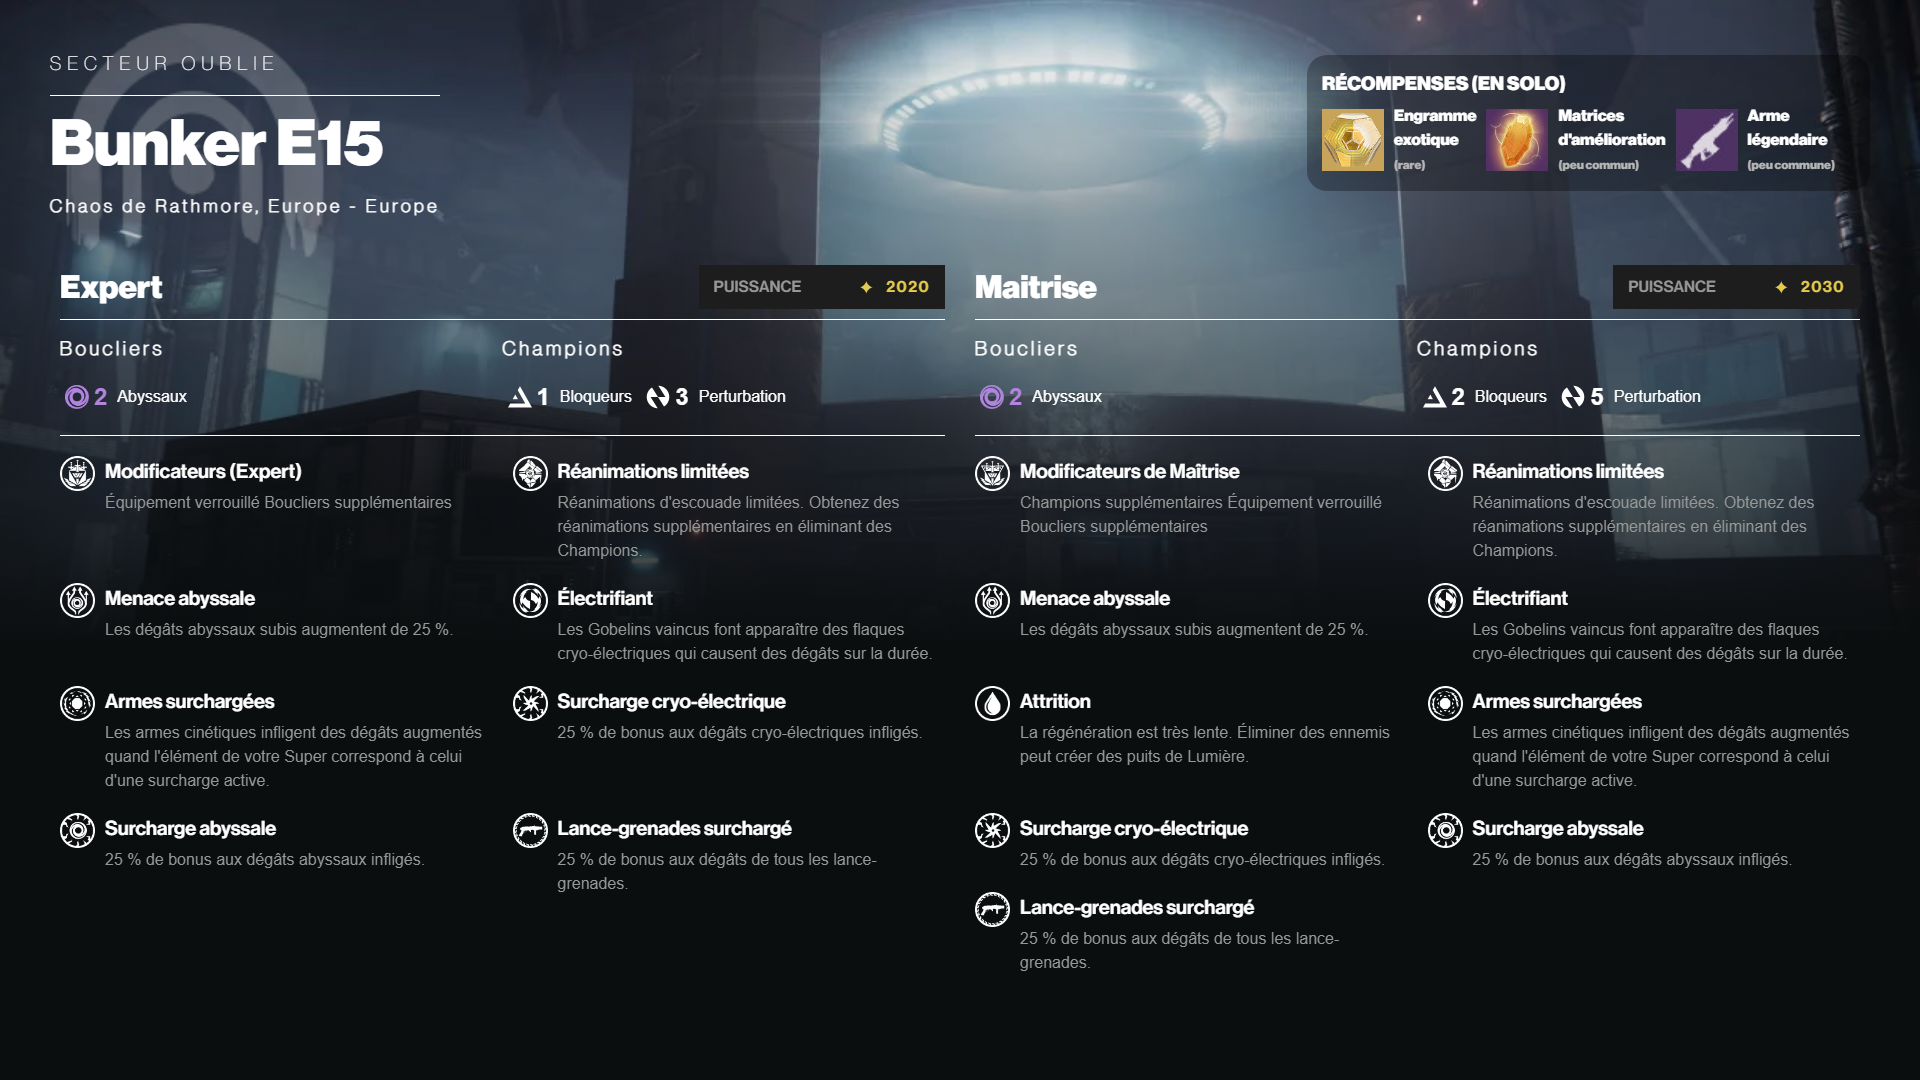
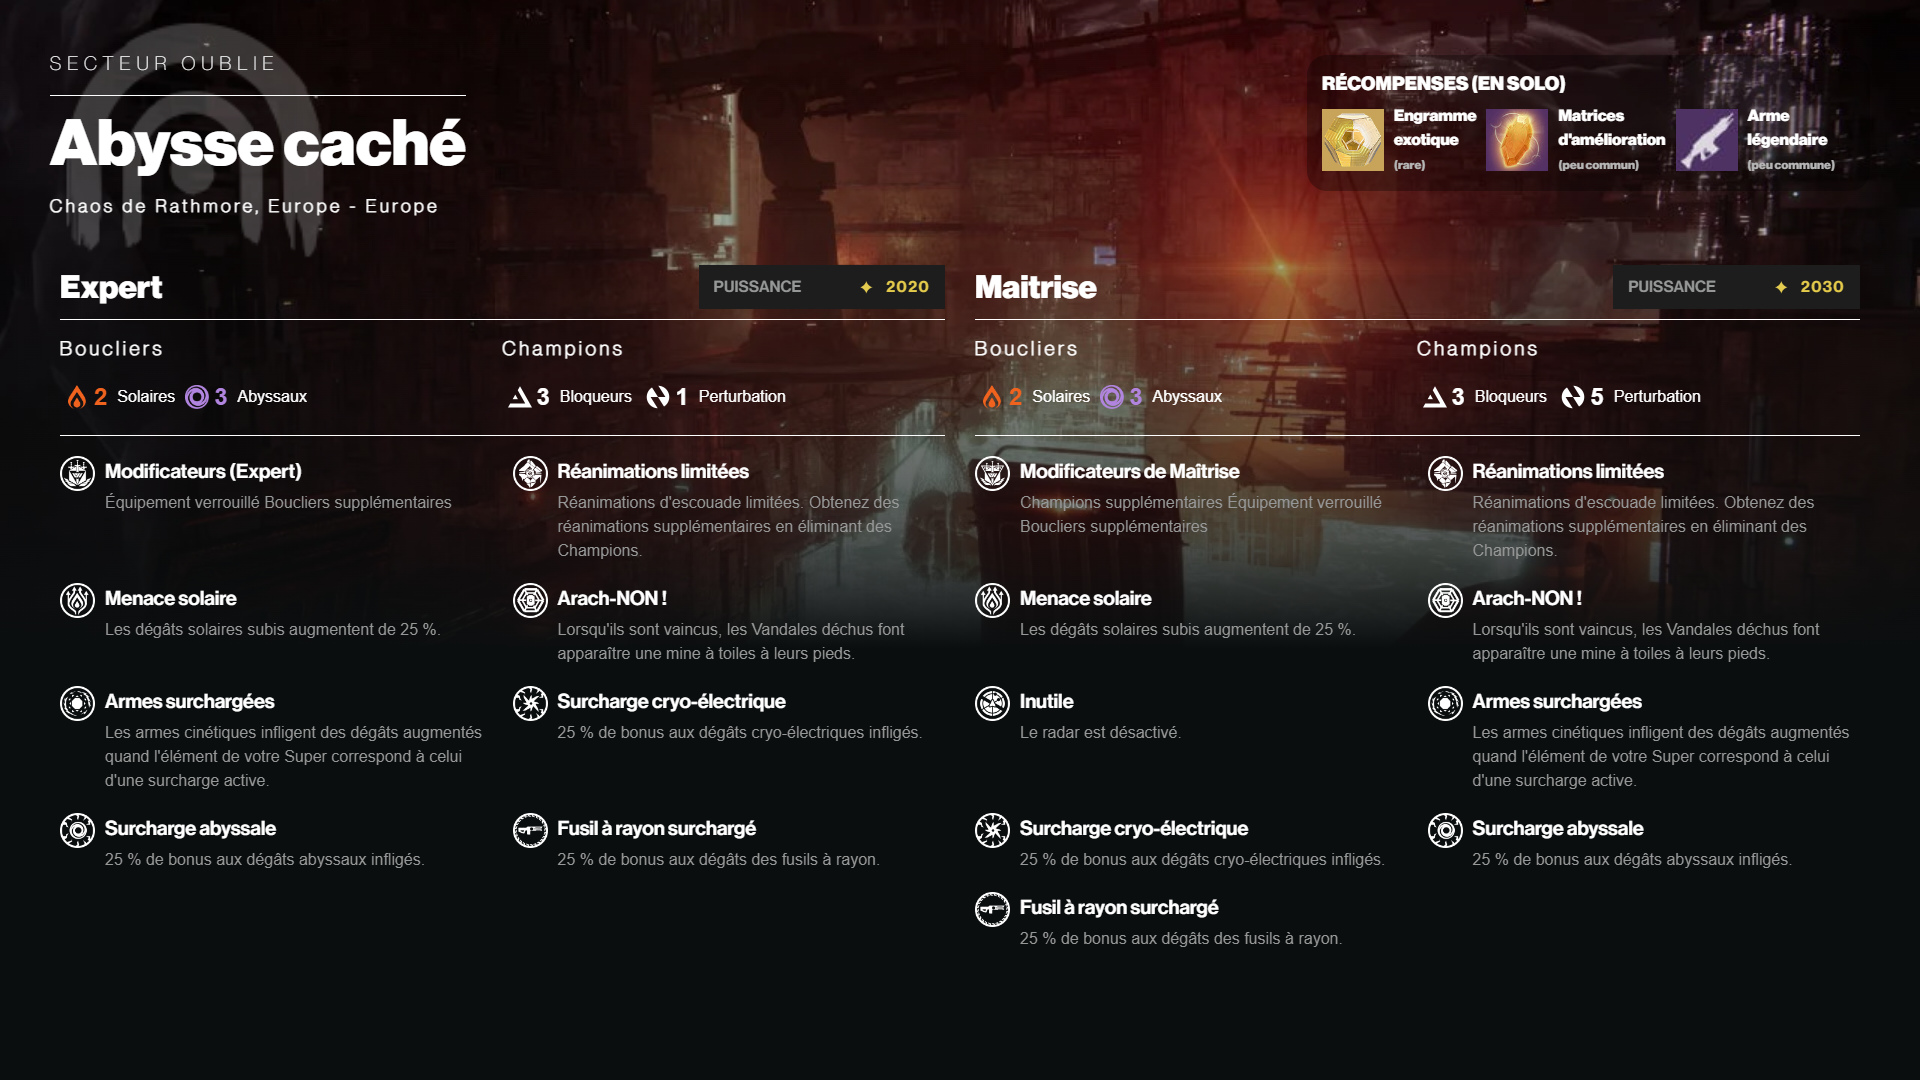
HTML to png fix

diff --git a/BotOfTheDisciple/Ressources/Output.html b/BotOfTheDisciple/Ressources/Output.html
@@ -10,14 +10,14 @@
 </head>
 <body>
 <div class="background">
-<img alt="Background Image" class="background-image" id="sector_background" src="https://www.bungie.net/img/destiny_content/pgcr/europa-lost-sector-overhang.jpg"/>
+<img alt="Background Image" class="background-image" id="sector_background" src="https://www.bungie.net/img/destiny_content/pgcr/europa-lost-sector-frost.jpg"/>
 <div class="overlay"></div>
 <div class="top-title">
 <div class="background-image-container">
 <img alt="Sector-Icon" class="toptitle-background-image" id="Sector-Icon" src="https://www.bungie.net/common/destiny2_content/icons/DestinyActivityModeDefinition_7d11acd7d5a3daebc0a0c906452932d6.png"/>
 </div>
 <p class="activity-type animated fadeInRight delay-1" id="activity_type">SECTEUR OUBLIE</p>
-<h1 class="activity-name animated fadeInRight delay-2" id="activity_name">Bunker E15</h1>
+<h1 class="activity-name animated fadeInRight delay-2" id="activity_name">Abysse caché</h1>
 <p class="activity-description animated fadeInRight delay-3" id="activity_description">Chaos de Rathmore, Europe - Europe</p>
 </div>
 <div class="reward-section">
@@ -47,18 +47,21 @@
 <div class="shield-champion-column">
 <div class="column-title">Boucliers</div>
 <div class="info-shield-champ-container" id="info_shield_container_expert"><div class="info-shield-champ">
+<img src="https://www.bungie.net/common/destiny2_content/icons/DestinyDamageTypeDefinition_2a1773e10968f2d088b97c22b22bba9e.png"/>
+<span class="count Solaires">2</span>Solaires
+</div><div class="info-shield-champ">
 <img src="https://www.bungie.net/common/destiny2_content/icons/DestinyDamageTypeDefinition_ceb2f6197dccf3958bb31cc783eb97a0.png"/>
-<span class="count Abyssaux">2</span>Abyssaux
+<span class="count Abyssaux">3</span>Abyssaux
 </div></div>
 </div>
 <div class="shield-champion-column">
 <div class="column-title">Champions</div>
 <div class="info-shield-champ-container" id="info_champ_container_expert"><div class="info-shield-champ">
 <img src="https://www.bungie.net/common/destiny2_content/icons/DestinyBreakerTypeDefinition_07b9ba0194e85e46b258b04783e93d5d.png"/>
-<span class="count" id="text">1</span>Bloqueurs
+<span class="count" id="text">3</span>Bloqueurs
 </div> <div class="info-shield-champ">
 <img src="https://www.bungie.net/common/destiny2_content/icons/DestinyBreakerTypeDefinition_da558352b624d799cf50de14d7cb9565.png"/>
-<span class="count" id="text">3</span>Perturbation
+<span class="count" id="text">1</span>Perturbation
 </div> </div>
 </div>
 </div>
@@ -81,19 +84,19 @@ Boucliers supplémentaires</div>
 </div>
 </div><div class="modifier">
 <div class="modifier-icon">
-<img src="https://www.bungie.net/common/destiny2_content/icons/219a3080f3e7341d5ee3959c2ea3130b.png"/>
+<img src="https://www.bungie.net/common/destiny2_content/icons/f6b527babb14a24ee4d6ac3180ed5c08.png"/>
 </div>
 <div class="modifier-text">
-<div class="modifier-title">Menace abyssale</div>
-<div class="modifier-detail">Les dégâts abyssaux subis augmentent de 25 %.</div>
+<div class="modifier-title">Menace solaire</div>
+<div class="modifier-detail">Les dégâts solaires subis augmentent de 25 %.</div>
 </div>
 </div><div class="modifier">
 <div class="modifier-icon">
-<img src="https://www.bungie.net/common/destiny2_content/icons/14d20a53cb4107b0f2cb2e1670886212.png"/>
+<img src="https://www.bungie.net/common/destiny2_content/icons/0a0d33598c53a4b6fca44f962120d44a.png"/>
 </div>
 <div class="modifier-text">
-<div class="modifier-title">Électrifiant</div>
-<div class="modifier-detail">Les Gobelins vaincus font apparaître des flaques cryo-électriques qui causent des dégâts sur la durée.</div>
+<div class="modifier-title">Arach-NON !</div>
+<div class="modifier-detail">Lorsqu'ils sont vaincus, les Vandales déchus font apparaître une mine à toiles à leurs pieds.</div>
 </div>
 </div><div class="modifier">
 <div class="modifier-icon">
@@ -121,11 +124,11 @@ Boucliers supplémentaires</div>
 </div>
 </div><div class="modifier">
 <div class="modifier-icon">
-<img src="https://www.bungie.net/common/destiny2_content/icons/c04b991d354cfafc43ad1075868f2781.png"/>
+<img src="https://www.bungie.net/common/destiny2_content/icons/f1996e9325be847a3e9c4399eb933053.png"/>
 </div>
 <div class="modifier-text">
-<div class="modifier-title">Lance-grenades surchargé</div>
-<div class="modifier-detail">25 % de bonus aux dégâts de tous les lance-grenades.</div>
+<div class="modifier-title">Fusil à rayon surchargé</div>
+<div class="modifier-detail">25 % de bonus aux dégâts des fusils à rayon.</div>
 </div>
 </div></div>
 </div>
@@ -144,15 +147,18 @@ Boucliers supplémentaires</div>
 <div class="shield-champion-column">
 <div class="column-title">Boucliers</div>
 <div class="info-shield-champ-container" id="info_shield_container_master"><html><body><div class="info-shield-champ">
+<img src="https://www.bungie.net/common/destiny2_content/icons/DestinyDamageTypeDefinition_2a1773e10968f2d088b97c22b22bba9e.png"/>
+<span class="count Solaires">2</span>Solaires
+</div></body></html><html><body><div class="info-shield-champ">
 <img src="https://www.bungie.net/common/destiny2_content/icons/DestinyDamageTypeDefinition_ceb2f6197dccf3958bb31cc783eb97a0.png"/>
-<span class="count Abyssaux">2</span>Abyssaux
+<span class="count Abyssaux">3</span>Abyssaux
 </div></body></html></div>
 </div>
 <div class="shield-champion-column">
 <div class="column-title">Champions</div>
 <div class="info-shield-champ-container" id="info_champ_container_master"><html><body><div class="info-shield-champ">
 <img src="https://www.bungie.net/common/destiny2_content/icons/DestinyBreakerTypeDefinition_07b9ba0194e85e46b258b04783e93d5d.png"/>
-<span class="count" id="text">2</span>Bloqueurs
+<span class="count" id="text">3</span>Bloqueurs
 </div> </body></html><html><body><div class="info-shield-champ">
 <img src="https://www.bungie.net/common/destiny2_content/icons/DestinyBreakerTypeDefinition_da558352b624d799cf50de14d7cb9565.png"/>
 <span class="count" id="text">5</span>Perturbation
@@ -179,27 +185,27 @@ Boucliers supplémentaires</div>
 </div>
 </div></body></html><html><body><div class="modifier">
 <div class="modifier-icon">
-<img src="https://www.bungie.net/common/destiny2_content/icons/219a3080f3e7341d5ee3959c2ea3130b.png"/>
+<img src="https://www.bungie.net/common/destiny2_content/icons/f6b527babb14a24ee4d6ac3180ed5c08.png"/>
 </div>
 <div class="modifier-text">
-<div class="modifier-title">Menace abyssale</div>
-<div class="modifier-detail">Les dégâts abyssaux subis augmentent de 25 %.</div>
+<div class="modifier-title">Menace solaire</div>
+<div class="modifier-detail">Les dégâts solaires subis augmentent de 25 %.</div>
 </div>
 </div></body></html><html><body><div class="modifier">
 <div class="modifier-icon">
-<img src="https://www.bungie.net/common/destiny2_content/icons/14d20a53cb4107b0f2cb2e1670886212.png"/>
+<img src="https://www.bungie.net/common/destiny2_content/icons/0a0d33598c53a4b6fca44f962120d44a.png"/>
 </div>
 <div class="modifier-text">
-<div class="modifier-title">Électrifiant</div>
-<div class="modifier-detail">Les Gobelins vaincus font apparaître des flaques cryo-électriques qui causent des dégâts sur la durée.</div>
+<div class="modifier-title">Arach-NON !</div>
+<div class="modifier-detail">Lorsqu'ils sont vaincus, les Vandales déchus font apparaître une mine à toiles à leurs pieds.</div>
 </div>
 </div></body></html><html><body><div class="modifier">
 <div class="modifier-icon">
-<img src="https://www.bungie.net/common/destiny2_content/icons/2a461c4e5b2d311c3bba93bbfa610472.png"/>
+<img src="https://www.bungie.net/common/destiny2_content/icons/c15f55a423934f6a96c95873d72306a2.png"/>
 </div>
 <div class="modifier-text">
-<div class="modifier-title">Attrition</div>
-<div class="modifier-detail">La régénération est très lente. Éliminer des ennemis peut créer des puits de Lumière.</div>
+<div class="modifier-title">Inutile</div>
+<div class="modifier-detail">Le radar est désactivé.</div>
 </div>
 </div></body></html><html><body><div class="modifier">
 <div class="modifier-icon">
@@ -227,11 +233,11 @@ Boucliers supplémentaires</div>
 </div>
 </div></body></html><html><body><div class="modifier">
 <div class="modifier-icon">
-<img src="https://www.bungie.net/common/destiny2_content/icons/c04b991d354cfafc43ad1075868f2781.png"/>
+<img src="https://www.bungie.net/common/destiny2_content/icons/f1996e9325be847a3e9c4399eb933053.png"/>
 </div>
 <div class="modifier-text">
-<div class="modifier-title">Lance-grenades surchargé</div>
-<div class="modifier-detail">25 % de bonus aux dégâts de tous les lance-grenades.</div>
+<div class="modifier-title">Fusil à rayon surchargé</div>
+<div class="modifier-detail">25 % de bonus aux dégâts des fusils à rayon.</div>
 </div>
 </div></body></html></div>
 </div>

diff --git a/PythonProject/Source/Utils/HTMLToPNG.py b/PythonProject/Source/Utils/HTMLToPNG.py
@@ -2,35 +2,25 @@ from selenium import webdriver
 from selenium.webdriver.chrome.options import Options
 from PIL import Image
 import io
-import time  # Importer la bibliothèque time pour utiliser sleep
+import time
 
 def html_to_png(html_path, output_path):
     # Configurer Selenium pour utiliser Chrome en mode headless
     options = Options()
-    options.add_argument('--headless')
-    options.add_argument('--disable-gpu')
-    options.add_argument('--window-size=1920x1080')  # Vous pouvez ajuster la taille de la fenêtre
+    options.add_argument("start-maximized")
+    options.add_argument('--headless')  # Mode headless pour ne pas afficher le navigateur
 
-    # Initialiser le WebDriver (vous pouvez changer de driver si nécessaire)
+    # Initialiser le WebDriver pour Chrome
     driver = webdriver.Chrome(options=options)
 
     # Charger le fichier HTML
     driver.get(f"file:///{html_path}")
 
-    # Fixer la taille de la fenêtre à 1920x1080 pixels
-    driver.set_window_size(1920, 1080)
-    # Fixer la position de la fenêtre à (0, 0)
-    driver.set_window_position(0, 0)
+    # Définir explicitement la taille de la fenêtre à 1920x1080
+    driver.set_window_size(1936, 1227)
 
-    # Attendre 3 secondes pour laisser toutes les animations CSS se terminer
+    # Attendre un peu pour s'assurer que le contenu est chargé
     time.sleep(3)
-
-    # Obtenir les dimensions et la position de la fenêtre
-    window_rect = driver.get_window_rect()
-    print(f"Largeur de la fenêtre: {window_rect['width']} pixels")
-    print(f"Hauteur de la fenêtre: {window_rect['height']} pixels")
-    print(f"Position X de la fenêtre: {window_rect['x']} pixels")
-    print(f"Position Y de la fenêtre: {window_rect['y']} pixels")
 
     # Prendre une capture d'écran entière de la page
     screenshot = driver.get_screenshot_as_png()
